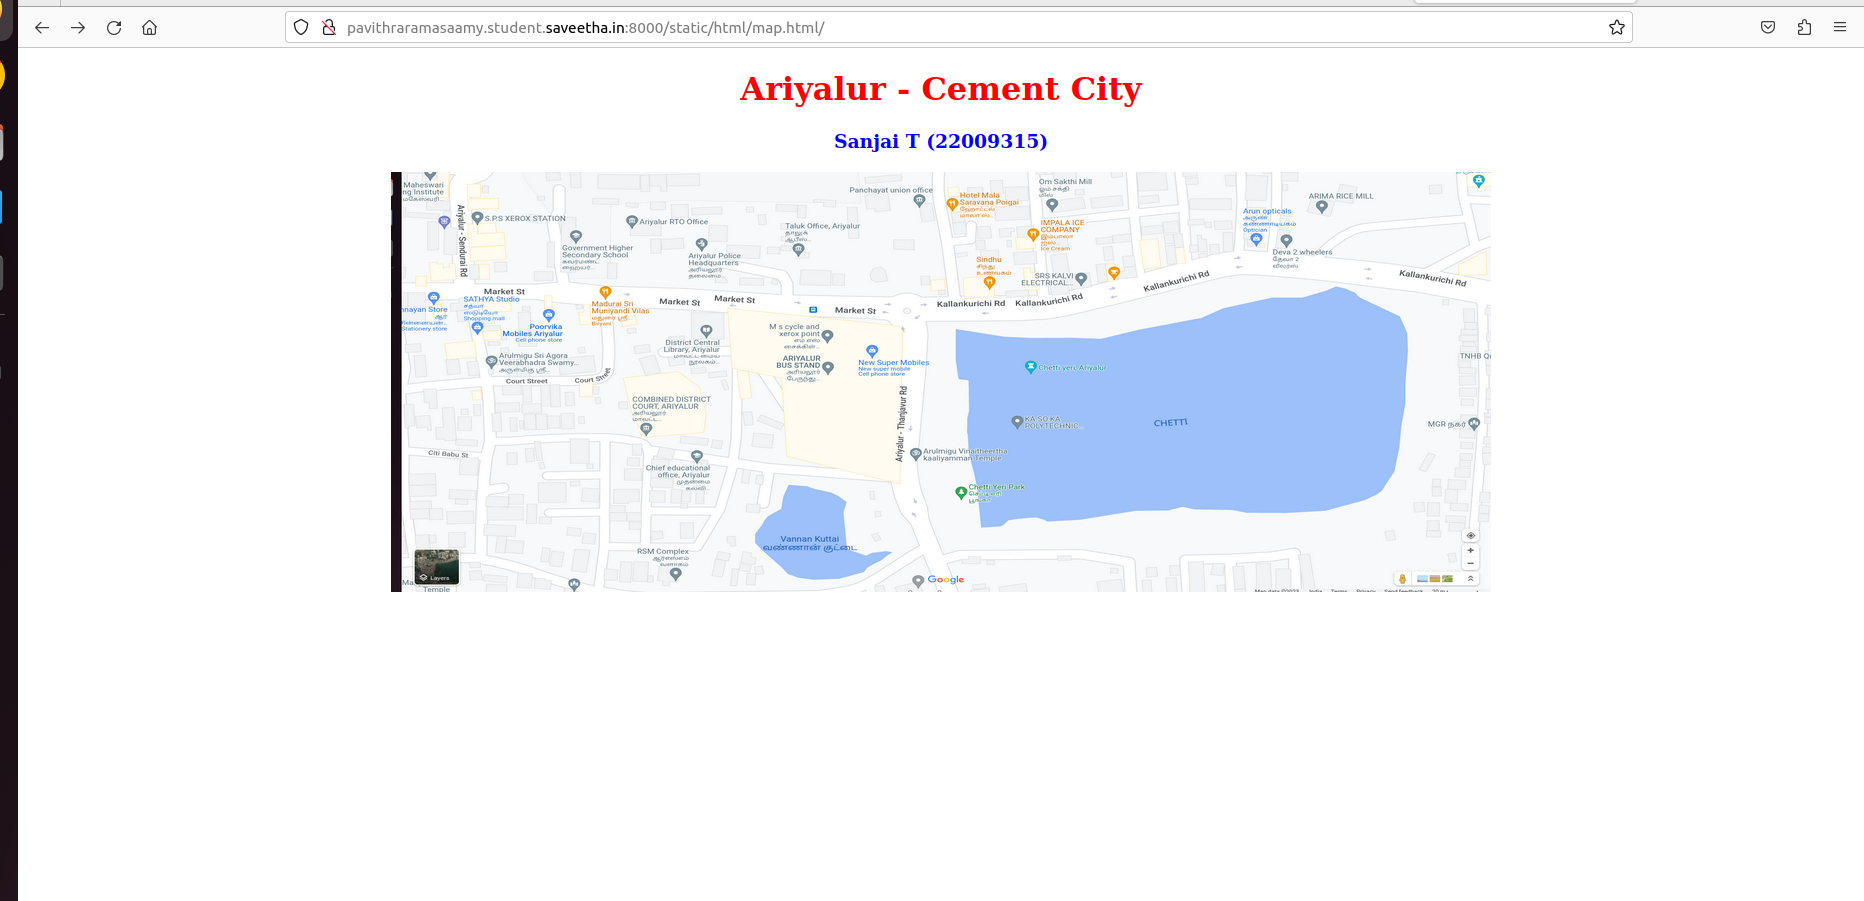
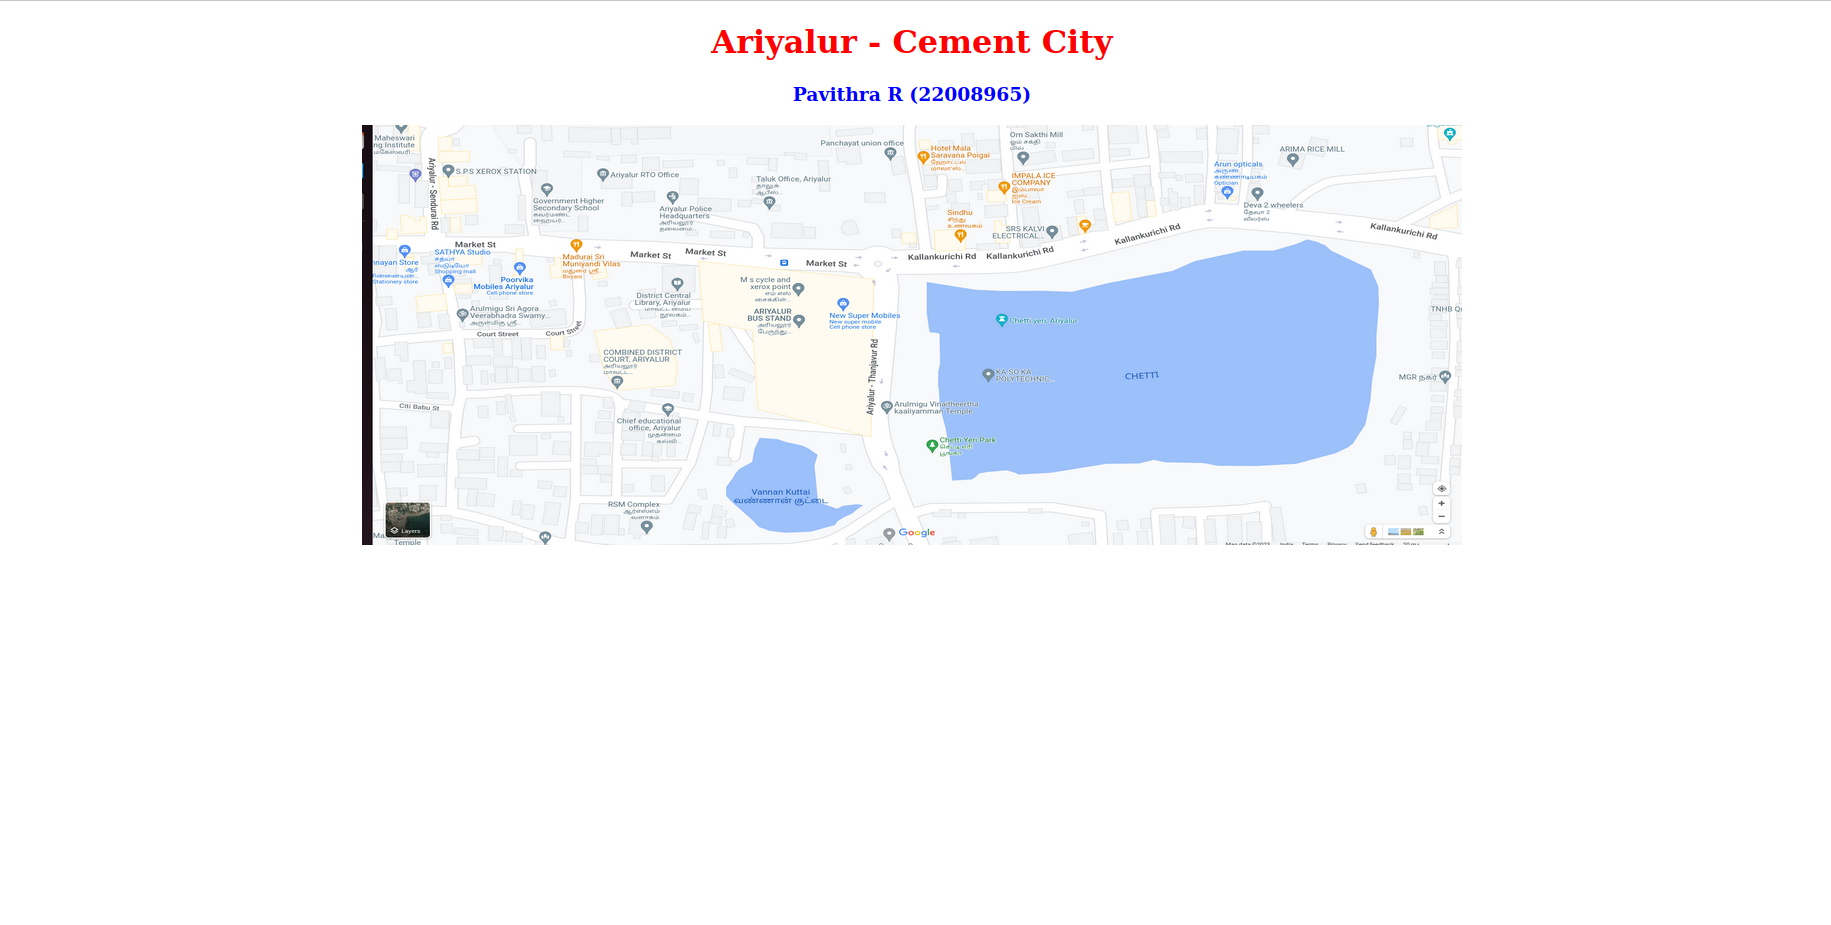
done

diff --git a/README.md b/README.md
@@ -5,14 +5,218 @@ To develop a website to display details about the places around my house.
 ## Design Steps:
 
 ### Step 1:
-Write your own steps here.
+
+Display every things in website
+
 ### Step 2:
+Give the correct input
 
 ## Code:
-Include your HTML code here
+```
+<!DOCTYPE html>
+<html lang="en">
+<head>
+<title>My City</title>
+</head>
+<body>
+<h1 align="center">
+<font color="red"><b>Ariyalur - Cement City</b></font>
+</h1>
+<h3 align="center">
+<font color="blue"><b>Pavithra R (22008965)</b></font>
+</h3>
+<center>
+<img src="/static/images/map.png" usemap="#MyCity" height="420" width="1100">
+<map name="MyCity">
+<area shape="circle" coords="190,50,20" href="/static/html/ghs.html" title="Govt. Higher Secondary School">
+<area shape="rectangle" coords="230,30,260,60" href="/static/html/rto.html" title="RTO Office">
+<area shape="circle" coords="400,350,50" href="/static/html/vk.html" title="Washerman's Lake">
+<area shape="circle" coords="400,200,75" href="/static/html/bus.html" title="Hi-Tech Bus Stand">
+<area shape="rectangle" coords="490,150,870,320" href="/static/html/park.html" title="Eco-Park">
+</map>
+</center>
+</body>
+</html>
+
+
+
+
+bus.html
+
+<!DOCTYPE html>
+<html lang="en">
+<head>
+<title>Bus Stand</title>
+</head>
+<body bgcolor="cyan">
+<h1 align="center">
+<font color="red"><b>Ariyalur - Cement City</b></font>
+</h1>
+<h3 align="center">
+<font color="blue"><b>Hi-Tech Bus Stand</b></font>
+</h3>
+<hr size="3" color="red">
+<p align="justify">
+<font face="Courier New" size="5">
+<b>
+Ariyalur district is an administrative district, one of the 38 districts in the 
+state of Tamil Nadu in India. The district headquarters is located at Ariyalur. 
+The district encompasses an area of 1,949.31 km². Gangaikonda Cholapuram, 
+built by King Rajendra Cholan of Chola Empire, is a UNESCO World Heritage site 
+situated in this district. The district is also known for its rich prehistoric 
+fossils. Many fossils of gigantic molluscs and jawed fishes, at least one 
+fossilized dinosaur egg, and several fragmentary fossils of sauropod and theropod 
+dinosaurs have been discovered here. An on-site museum is being set up at 
+Keelapazhur to preserve and conserve fossils. Ariyalur is noted for its cement
+ industries and Jayankondam has huge reserves of lignite.
+</b>
+</font>
+</p>
+</body>
+</html>
+
+park.html
+
+<!DOCTYPE html>
+<html lang="en">
+<head>
+<title>Eco-Park</title>
+</head>
+<body bgcolor="yellow">
+<h1 align="center">
+<font color="red"><b>Ariyalur - Cement City</b></font>
+</h1>
+<h3 align="center">
+<font color="blue"><b>Eco-Park</b></font>
+</h3>
+<hr size="3" color="red">
+<p align="justify">
+<font face="Tahoma" size="5">
+A very nice park near Ariyalur bus stand. It is located surrounding the Chetty Lake. 
+Very superb calm place in ariyalur. Best for walking. Nice playing place for kids.
+Well maintained with jogging track. Source of ground water.
+Good place play with children.  In Banyan Tree lot of parrot stay like house. 
+Good sound and Air. Lake view park looks awesome.
+Very nice place at Ariyalur.
+Simple and relax with play area.
+</font>
+</p>
+</body>
+</html>
+
+
+rto.html
+<!DOCTYPE html>
+<html lang="en">
+<head>
+<title>RTO Office</title>
+</head>
+<body bgcolor="pink">
+<h1 align="center">
+<font color="red"><b>Ariyalur - Cement City</b></font>
+</h1>
+<h3 align="center">
+<font color="blue"><b>RTO Office</b></font>
+</h3>
+<hr size="3" color="red">
+<p align="justify">
+<font face="Arial" size="5">
+<b>
+RTO office or the Regional Transport Office is a government body specifically established to oversee all transport-related operations in the country. RTOs are located throughout the country in each state and union territory. RTOs are responsible for enforcing the rules as laid down by the Motor Vehicle Act of 1988.
+The department also maintains a database of all the vehicles operating in the country as well as issues licenses for drivers. Besides, the RTO office also collects road taxes, supervises pollution checks, and ensures the enforcement of all road transportation rules. If you own or drive a vehicle in India, you will need to visit the RTO to get your vehicle registered, obtain a driver’s license or renew your driver’s license, etc.
+RTOs are also responsible for improving road and vehicle safety, especially to avoid accidents and other road fatalities.
+</b>
+</font>
+</p>
+</body>
+</html>
+
+ghs.html
+<!DOCTYPE html>
+<html lang="en">
+<head>
+<title>Govt. High. Sec. School</title>
+</head>
+<body bgcolor="lime">
+<h1 align="center">
+<font color="red"><b>Ariyalur - Cement City</b></font>
+</h1>
+<h3 align="center">
+<font color="blue"><b>Government Higher Secondary School</b></font>
+</h3>
+<hr size="3" color="red">
+<p align="justify">
+<font face="Georgia" size="5">
+The main objectives of Ariyalur Government Higher Secondary School are 
+<ul>
+<li>To impart proper and qualified training to teachers and give them an attractive salary and incentives so that they are not tempted to quit and look elsewhere for jobs.</li>
+<li>To provide financial aids and grants wisely and judiciously.</li>
+<li>To Frame of syllabus and curriculum.</li>
+<li>To set aims and objectives of education.</li>
+</ul>
+</font>
+</p>
+</body>
+</html>
+
+
+
+vk.html
+<!DOCTYPE html>
+<html lang="en">
+<head>
+<title>Washerman’s Lake</title>
+</head>
+<body bgcolor="orange">
+<h1 align="center">
+<font color="red"><b>Ariyalur - Cement City</b></font>
+</h1>
+<h3 align="center">
+<font color="blue"><b>Washerman's Lake</b></font>
+</h3>
+<hr size="3" color="red">
+<p align="justify">
+<font face="Georgia" size="5">
+The uses of Washerman's Lake in Ariyalur District are 
+<ol type="1">
+<li>Lake is used for rain water harvesting.</li>
+<li>It is used for drinking.</li>
+<li>Pisculture.</li>
+<li>For bathing, washing clothes etc.</li>
+</ol>
+</font>
+</p>
+</body>
+</html>
+```
 
 ## Output:
-Include your output screenshot here
+
+
+![Output](./screenshots/output 1.png)
+
+
+![Output](./screenshots/output 2.png)
+
+
+![Output](./screenshots/output 3.png)
+
+
+![Output](./screenshots/output 4.png)
+
+
+![Output](./screenshots/output 5.png)
+
+
+![Output](./screenshots/output 6.png)
+
+## HTML Validator:
+
+
+![HTML Validator](./screenshots/valid.png)
+
 
 ## Result:
-Write your result
+
+The places around my native is executed successfully
+
